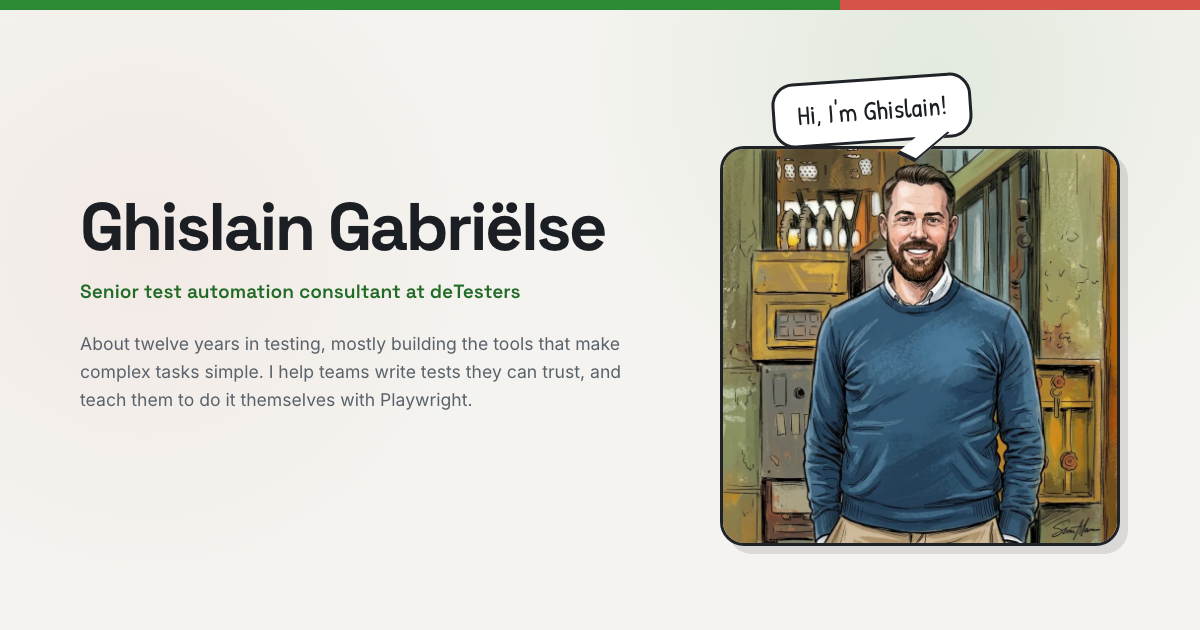
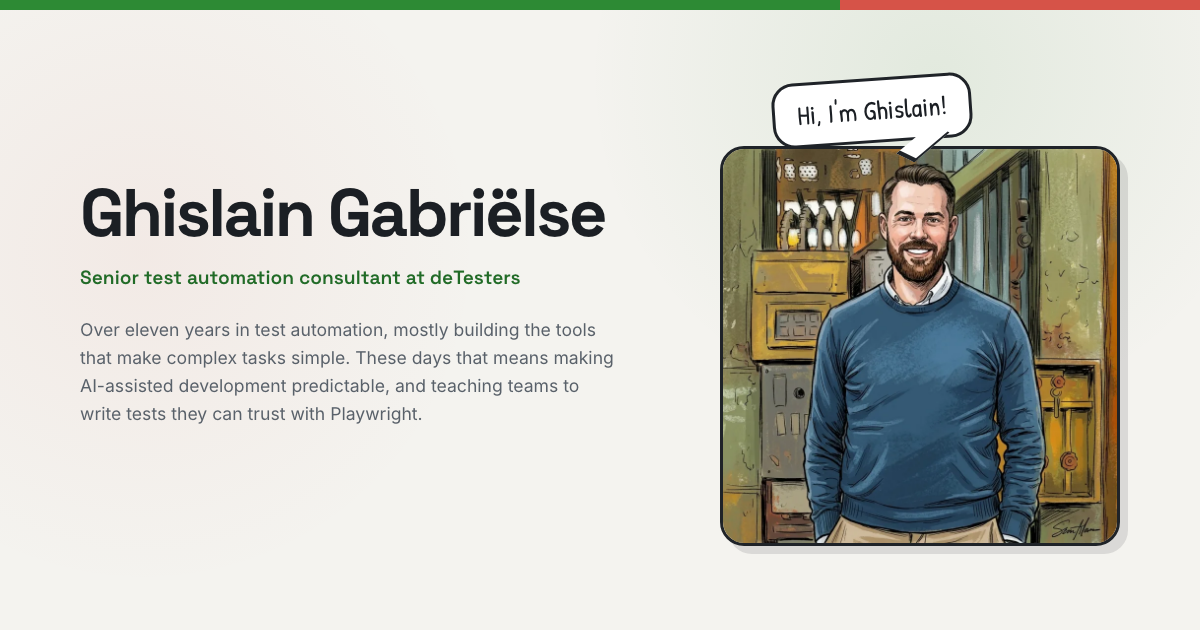
Homepage: prominent AI section (harness engineering, MCP, skills), drop off-the-clock, certs from CV

Changed region(s): [[0.0617, 0.3016, 0.5242, 0.4825], [0.0617, 0.5127, 0.5242, 0.6635]]

diff --git a/home/index.html b/home/index.html
@@ -3,10 +3,10 @@
 <head>
   <meta charset="utf-8" />
   <meta name="viewport" content="width=device-width, initial-scale=1" />
-  <title>Ghislain Gabriëlse · Test automation</title>
-  <meta name="description" content="Ghislain Gabriëlse, senior test automation consultant at deTesters. Playwright trainings, talks and workshops on test automation." />
-  <meta property="og:title" content="Ghislain Gabriëlse · Test automation" />
-  <meta property="og:description" content="Senior test automation consultant at deTesters. Playwright trainings, talks and workshops on test automation." />
+  <title>Ghislain Gabriëlse · Test automation &amp; AI</title>
+  <meta name="description" content="Ghislain Gabriëlse, senior test automation consultant at deTesters. Making AI-assisted development predictable with MCP servers, agent harnesses and skills, plus Playwright trainings and talks." />
+  <meta property="og:title" content="Ghislain Gabriëlse · Test automation &amp; AI" />
+  <meta property="og:description" content="Senior test automation consultant at deTesters. Making AI-assisted development predictable, and teaching Playwright." />
   <meta property="og:image" content="https://ghislain.dev/og-image.png" />
   <meta property="og:url" content="https://ghislain.dev/" />
   <meta name="theme-color" content="#f4f3ef" />
@@ -23,6 +23,7 @@
     "url": "https://ghislain.dev/",
     "image": "https://ghislain.dev/ghislain.webp",
     "jobTitle": "Senior test automation consultant",
+    "knowsAbout": ["Test automation", "Playwright", "AI-assisted development", "Model Context Protocol", "Harness engineering"],
     "worksFor": { "@type": "Organization", "name": "deTesters", "url": "https://detesters.nl/" },
     "address": { "@type": "PostalAddress", "addressLocality": "Woerden", "addressCountry": "NL" },
     "sameAs": ["https://www.linkedin.com/in/ggabrielse/", "https://github.com/Ghislain89"]
@@ -299,31 +300,66 @@
       font-size: 0.9rem;
     }
 
-    /* Off the clock */
-    .ride {
+    /* AI */
+    .ai {
+      padding: clamp(26px, 4vw, 44px);
+      border: 2px solid var(--line);
+      border-radius: 22px;
+      background:
+        radial-gradient(circle at 92% 8%, rgba(45, 138, 52, 0.35), transparent 38%),
+        radial-gradient(circle at 4% 96%, rgba(214, 83, 72, 0.22), transparent 34%),
+        var(--ink);
+      box-shadow: var(--shadow);
+      color: #eef0ec;
+    }
+
+    .ai .kicker { color: #f3a097; }
+    .ai h2 { margin-bottom: 14px; color: #fff; }
+    .ai .lead { max-width: 760px; margin: 0 0 30px; color: #c9cfd6; font-size: 1.08rem; }
+    .ai .lead strong { color: #fff; font-weight: 600; }
+
+    .pillars {
       display: grid;
-      grid-template-columns: auto minmax(0, 1fr);
-      gap: 36px;
-      align-items: center;
-      background: linear-gradient(135deg, #fff 55%, #fbe4e1);
-    }
-
-    .stats { display: flex; gap: 28px; margin: 0; }
-    .stats div { display: flex; flex-direction: column-reverse; }
-    .stats dt { color: var(--muted); font-size: 0.9rem; }
-
-    .stats dd {
+      grid-template-columns: repeat(3, minmax(0, 1fr));
+      gap: 18px;
       margin: 0;
-      font-family: "Space Grotesk", sans-serif;
-      font-size: clamp(2.2rem, 5vw, 3.2rem);
-      font-weight: 700;
-      letter-spacing: -0.04em;
-      line-height: 1;
+      padding: 0;
+      list-style: none;
     }
 
-    .stats div:first-child dd { color: var(--accent-dark); }
-    .stats div:last-child dd { color: var(--coral-dark); }
-    .ride p + p { margin-top: 10px; }
+    .pillars li {
+      padding: 22px;
+      border: 1px solid rgba(255, 255, 255, 0.16);
+      border-radius: 16px;
+      background: rgba(255, 255, 255, 0.05);
+    }
+
+    .pillars .tag {
+      display: inline-block;
+      margin-bottom: 10px;
+      padding: 2px 10px;
+      border-radius: 999px;
+      background: rgba(122, 200, 128, 0.16);
+      color: #9ad79f;
+      font-size: 0.78rem;
+      font-weight: 600;
+      letter-spacing: 0.06em;
+      text-transform: uppercase;
+    }
+
+    .pillars h3 { color: #fff; }
+    .pillars p { margin: 0; color: #c9cfd6; }
+
+    .ai-foot {
+      display: flex;
+      flex-wrap: wrap;
+      gap: 8px 22px;
+      align-items: center;
+      margin-top: 26px;
+      color: #c9cfd6;
+    }
+
+    .ai-foot a { color: #9ad79f; font-weight: 600; }
 
     /* Footer */
     footer { padding: 72px 0 36px; text-align: center; }
@@ -366,7 +402,7 @@
     @media (max-width: 860px) {
       .grid-3 { grid-template-columns: 1fr; }
       .split { grid-template-columns: 1fr; }
-      .ride { grid-template-columns: 1fr; gap: 20px; }
+      .pillars { grid-template-columns: 1fr; }
     }
 
     @media (max-width: 760px) {
@@ -401,16 +437,16 @@
         <h1>Ghislain Gabriëlse</h1>
         <p class="role">Senior test automation consultant at deTesters</p>
         <p class="bio">
-          About twelve years in testing, mostly building the tools that make complex
-          tasks simple. I help teams write tests they can trust, and teach them to do
-          it themselves with Playwright.
+          Over eleven years in test automation, mostly building the tools that make
+          complex tasks simple. These days that means making AI-assisted development
+          predictable, and teaching teams to write tests they can trust with Playwright.
         </p>
         <div class="actions">
           <a class="button" href="/playwright/">
             Playwright training
             <svg viewBox="0 0 16 16" aria-hidden="true"><path d="M3 8h9M8.5 4 12.5 8l-4 4" fill="none" stroke="currentColor" stroke-width="2" stroke-linecap="round" stroke-linejoin="round"/></svg>
           </a>
-          <a class="button secondary" href="#talks">Talks &amp; workshops</a>
+          <a class="button secondary" href="#ai">My AI work</a>
         </div>
       </div>
 
@@ -420,6 +456,39 @@
       </figure>
     </div>
 
+    <section id="ai" aria-labelledby="ai-title">
+      <div class="ai">
+        <p class="kicker">Now · BMW Financial Services</p>
+        <h2 id="ai-title">Making AI predictable</h2>
+        <p class="lead">
+          At BMW Financial Services, more than 25 feature teams build on one platform. I build
+          the tooling that lets them use AI in their daily work. The hard part isn't getting
+          an agent to do something; it's getting it to do <strong>the same right thing every time</strong>.
+        </p>
+        <ul class="pillars">
+          <li>
+            <span class="tag">Harness engineering</span>
+            <h3>Fixed phases, clear rules</h3>
+            <p>An AI harness that takes agents through fixed phases instead of letting them roam. Nothing moves on without proof that quality is in order, and it's agreed in advance which review findings block. A run behaves the same on a laptop as on a cloud agent.</p>
+          </li>
+          <li>
+            <span class="tag">MCP servers</span>
+            <h3>Real context, not guesswork</h3>
+            <p>MCP servers that connect agents to the platform and tools teams already use, so they act on real data through well-defined, controlled actions.</p>
+          </li>
+          <li>
+            <span class="tag">Skills &amp; agents</span>
+            <h3>A tested toolkit</h3>
+            <p>Reusable GitHub Copilot skills and specialised agents, shared through a skill marketplace, covering analysis and planning through to implementation, testing and review. Every new skill or agent is tested automatically in CI.</p>
+          </li>
+        </ul>
+        <p class="ai-foot">
+          <span>Want the short version?</span>
+          <a href="https://github.com/Ghislain89/Agents-skills-101-presentation">Agents, Skills &amp; MCP Servers: a practical 101 →</a>
+        </p>
+      </div>
+    </section>
+
     <section aria-labelledby="what">
       <p class="kicker">What I do</p>
       <h2 id="what">Test automation that teams keep using</h2>
@@ -427,7 +496,7 @@
         <article class="card">
           <div class="icon"><svg viewBox="0 0 24 24" aria-hidden="true"><path d="m9 12 2 2 4-4"/><path d="M12 3 4 6v6c0 4.5 3.4 8.3 8 9 4.6-.7 8-4.5 8-9V6Z"/></svg></div>
           <h3>Consulting</h3>
-          <p>As a consultant at deTesters I help teams set up test automation that is stable, fast and easy to maintain, from the first test to the CI pipeline.</p>
+          <p>As a consultant at deTesters I help teams with test automation, platform tooling and CI. At BMW Financial Services I built a self-service platform that runs more than 100 test environments and automates releases and hotfixes.</p>
         </article>
         <article class="card">
           <div class="icon"><svg viewBox="0 0 24 24" aria-hidden="true"><rect x="3" y="4" width="18" height="12" rx="2"/><path d="M8 20h8M12 16v4M7 9l2 2-2 2M12 13h4"/></svg></div>
@@ -489,11 +558,12 @@
         <div class="card">
           <h3>Certifications</h3>
           <ul class="certs">
-            <li><strong>Selenium Tester Foundation</strong><span>iSQI · 2019</span></li>
+            <li><strong>TMAP: High-performance quality engineering</strong><span>Accredited trainer · 2023</span></li>
+            <li><strong>TMAP: Quality for cross-functional teams</strong><span>Accredited trainer · 2020</span></li>
+            <li><strong>AZ-900: Azure Fundamentals</strong><span>Microsoft · 2020</span></li>
+            <li><strong>Selenium Certified Tester</strong><span>iSQI · 2019</span></li>
             <li><strong>Certified Agile Tester</strong><span>iSQI · 2015</span></li>
-            <li><strong>ITIL Foundation</strong><span>EXIN · 2014</span></li>
             <li><strong>TMap NEXT Test Engineer</strong><span>EXIN · 2014</span></li>
-            <li><strong>Agile Foundation</strong><span>Agile Consortium</span></li>
           </ul>
         </div>
         <div class="card">
@@ -512,9 +582,10 @@
                 <ul class="chips">
                   <li>Playwright</li>
                   <li>TypeScript</li>
-                  <li>Java</li>
-                  <li>Testcontainers</li>
+                  <li>Java &amp; Quarkus</li>
+                  <li>Kubernetes</li>
                   <li>GitHub Actions</li>
+                  <li>GitHub Copilot</li>
                   <li>AI agents &amp; MCP</li>
                 </ul>
               </dd>
@@ -524,20 +595,6 @@
       </div>
     </section>
 
-    <section aria-labelledby="clock">
-      <p class="kicker">Off the clock</p>
-      <h2 id="clock">1,000 km for a good cause</h2>
-      <div class="card ride">
-        <dl class="stats">
-          <div><dt>cycled</dt><dd>1,093 km</dd></div>
-          <div><dt>raised</dt><dd>€906</dd></div>
-        </dl>
-        <div>
-          <p>In September 2025 I cycled for KWF Kankerbestrijding (the Dutch Cancer Society): 200 km, plus one extra kilometre for every euro donated. I seriously underestimated how generous people are.</p>
-          <p>The rest of the time I live in Woerden, as a father of two and a butler to a cat.</p>
-        </div>
-      </div>
-    </section>
   </main>
 
   <footer class="wrap">
